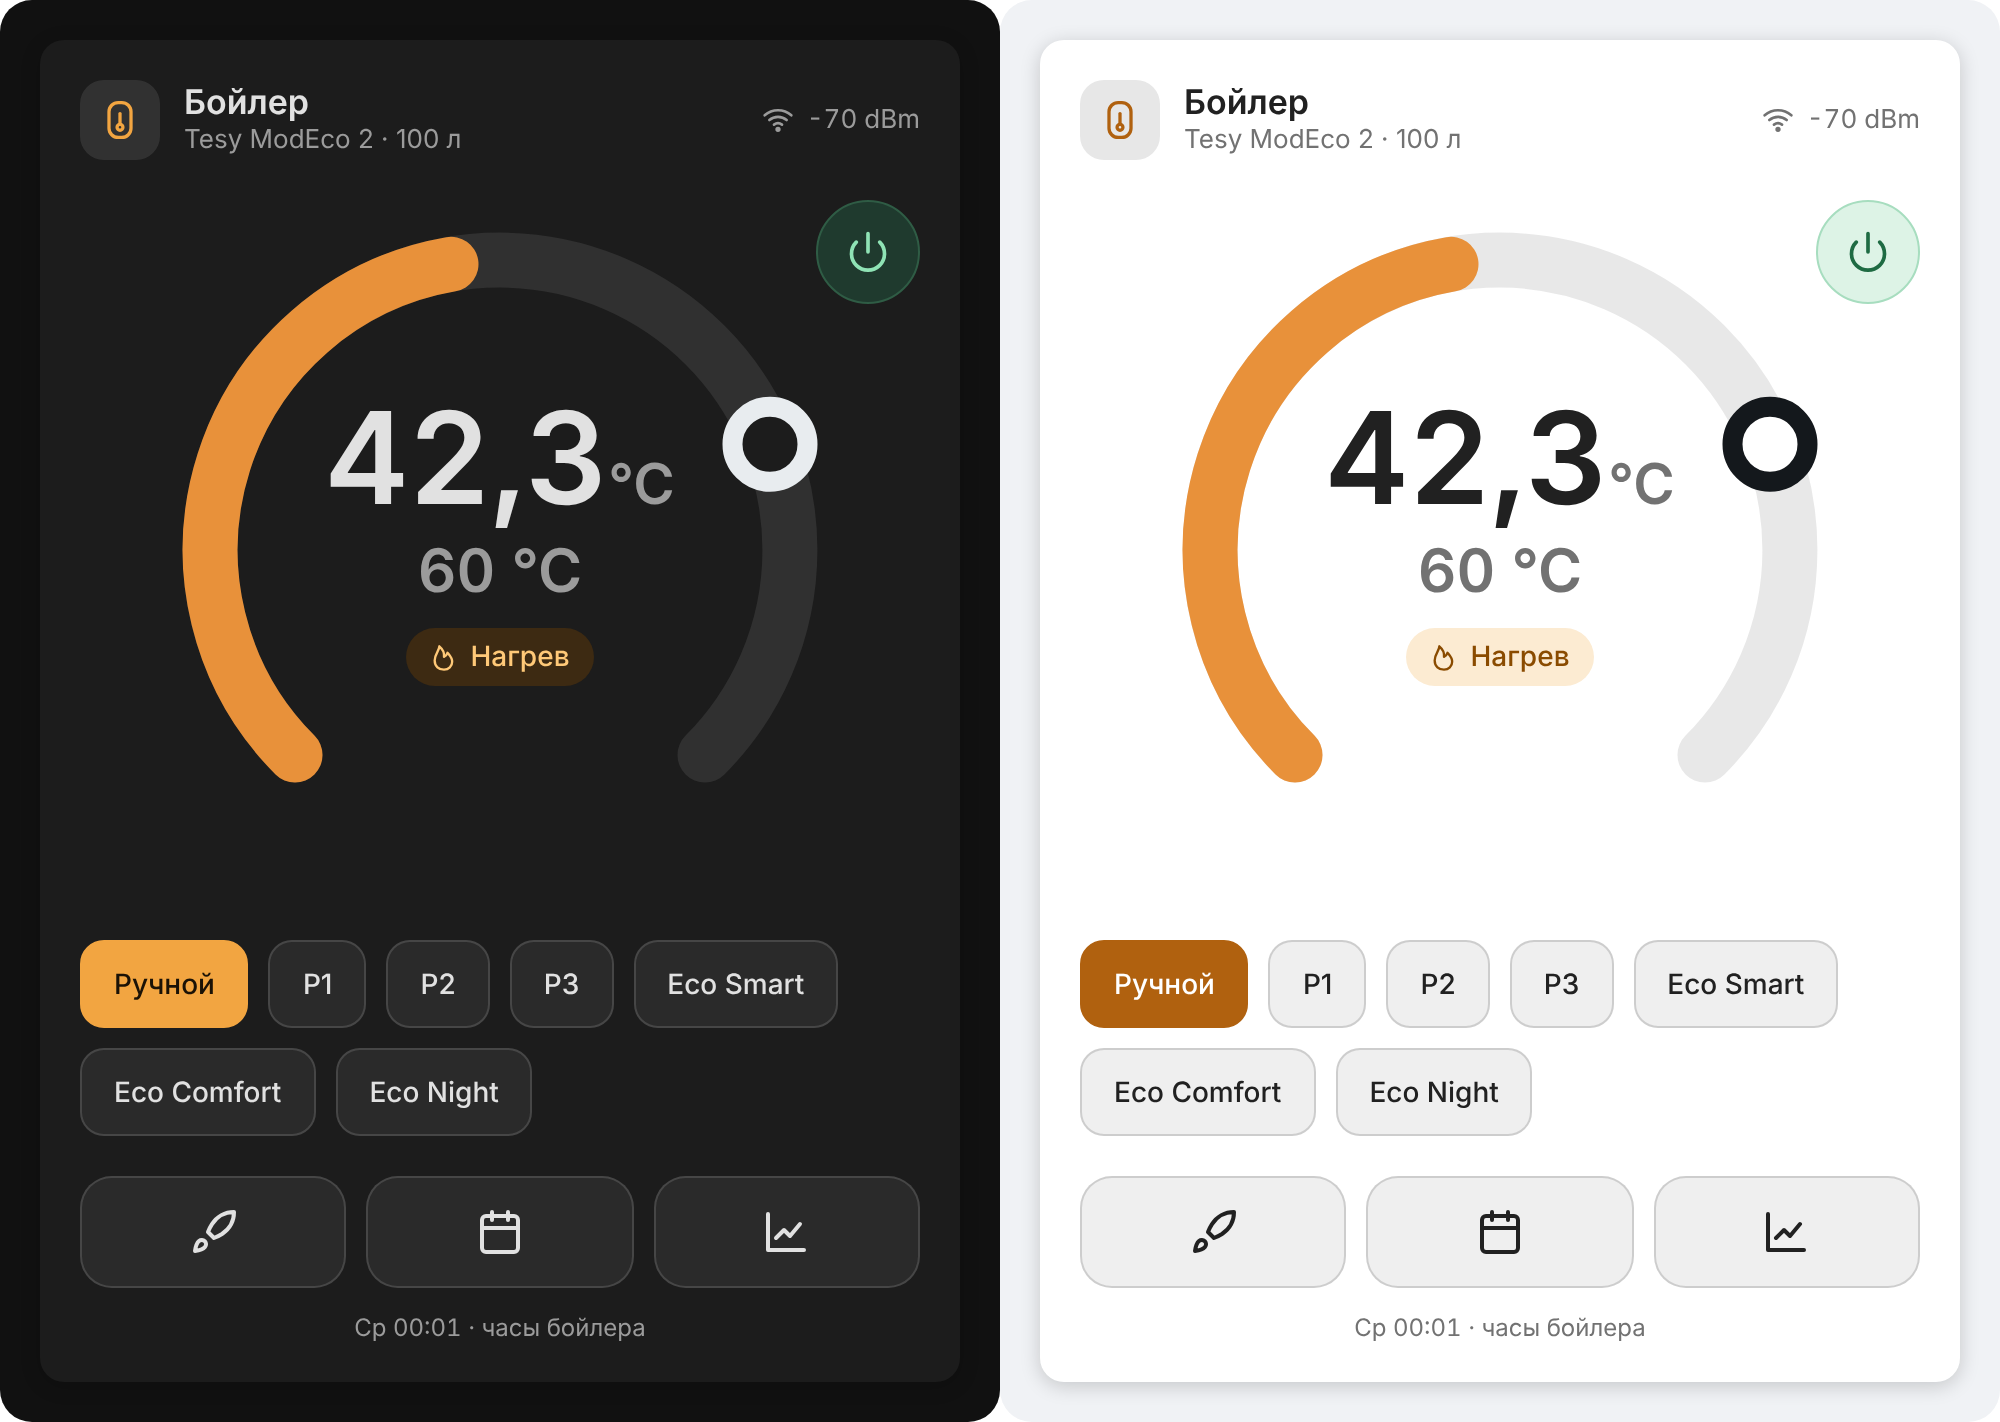
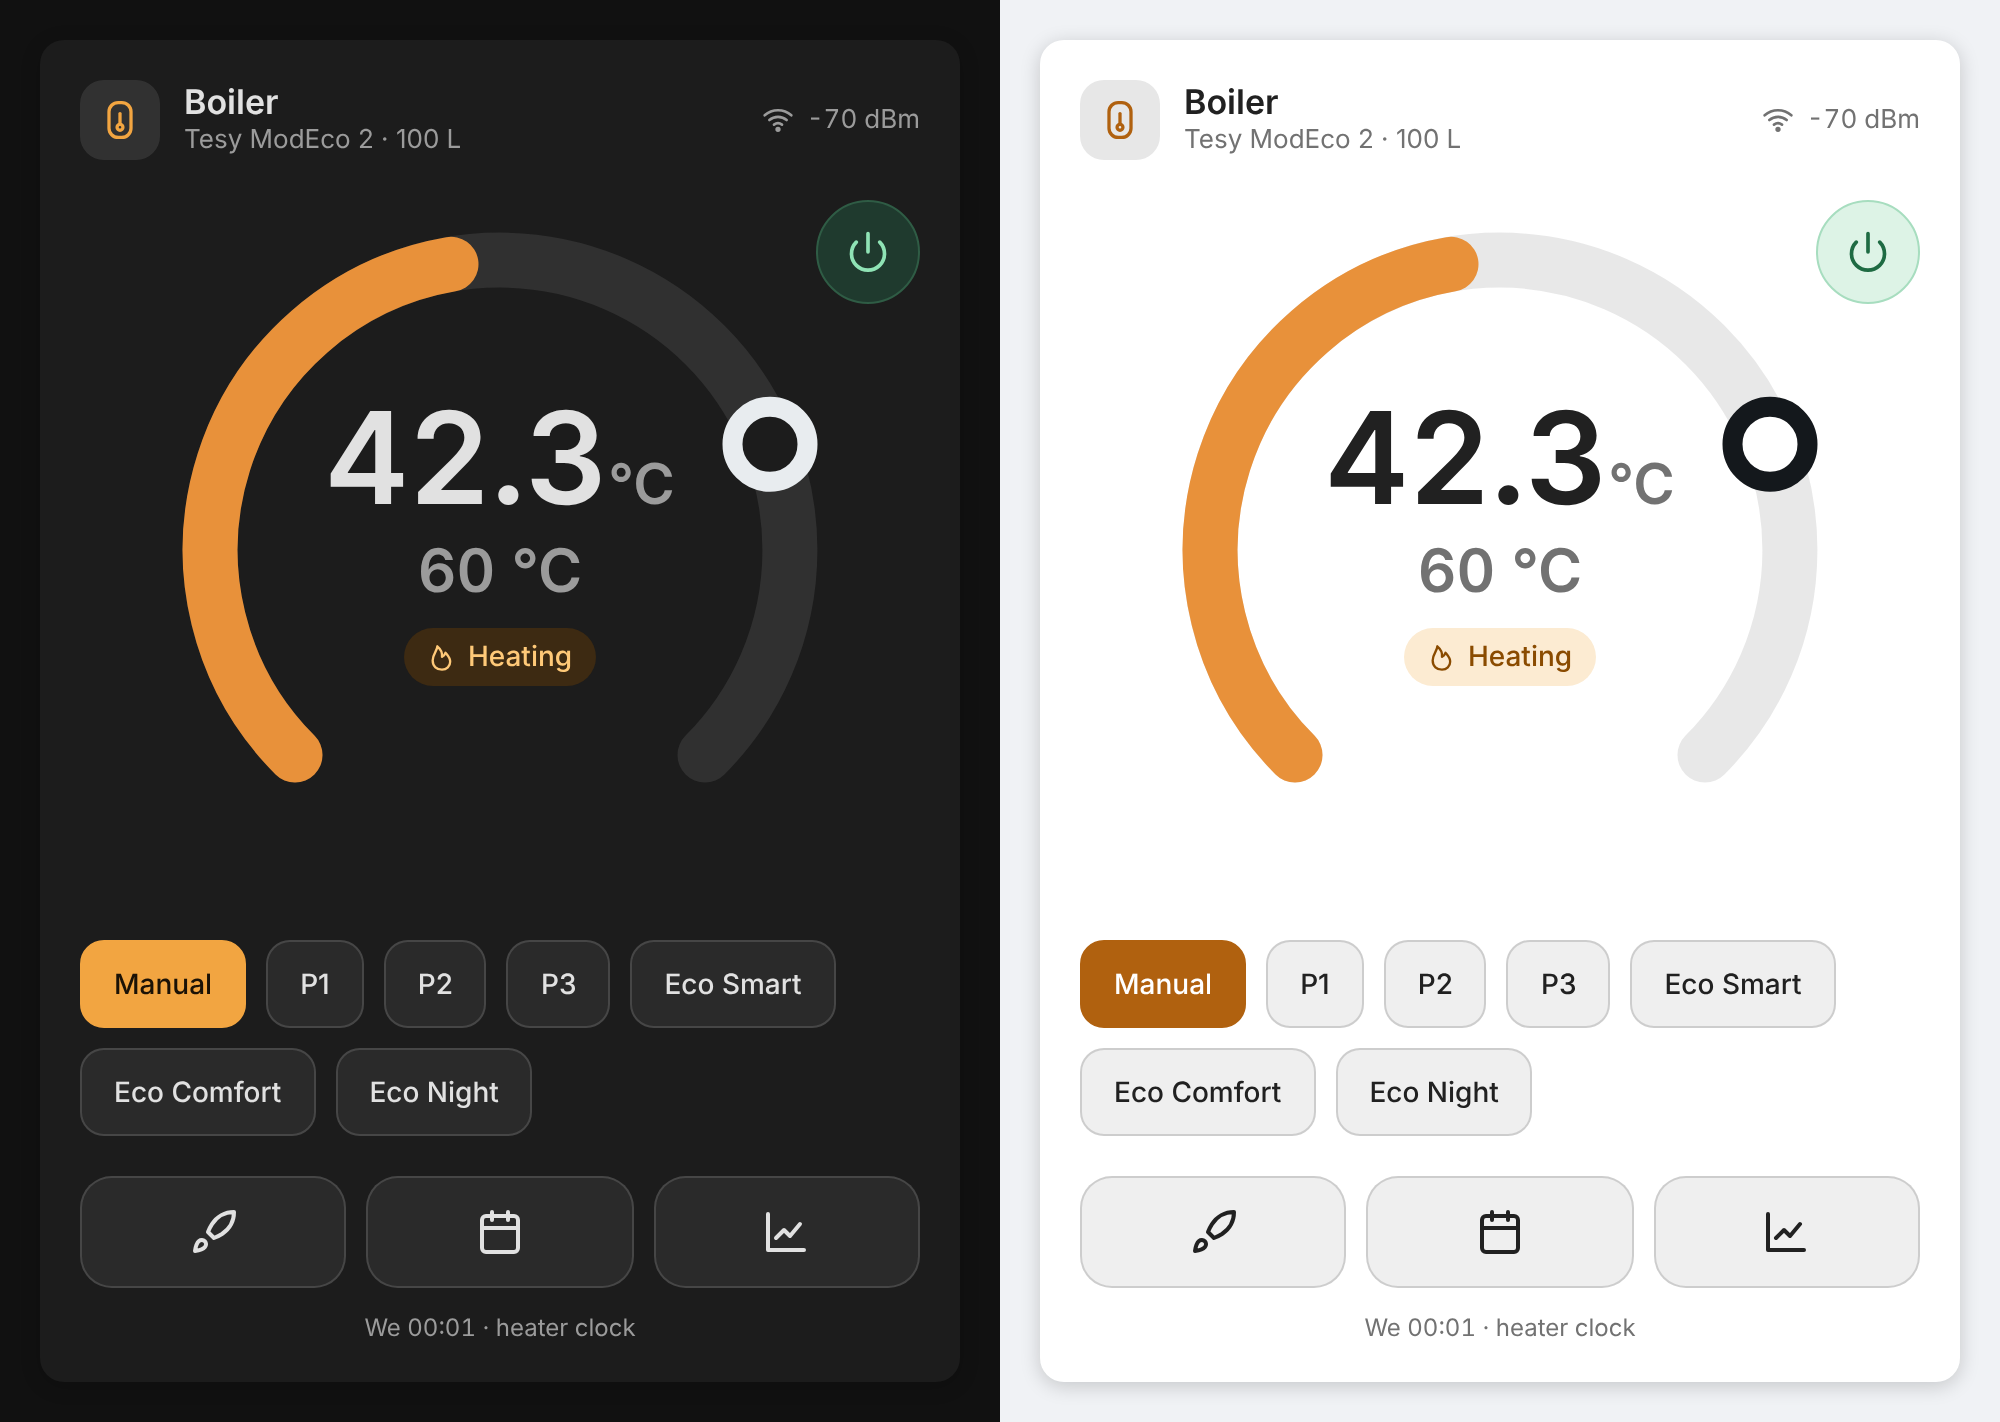
README: English card screenshots, schedule and statistics sections

diff --git a/README.md b/README.md
@@ -74,11 +74,38 @@ auto_reload: true   # reload a page that still runs an older card after an updat
 - **Dial** with the current water temperature and the active target. In manual mode a handle on the dial sets the setpoint (15–75 °C); other modes show the target they work to.
 - **Power** button at the top right of the dial; **modes** Manual, P1–P3, Eco Smart/Comfort/Night; **Boost**, **schedule** and **statistics** as icon buttons.
 - Heating status (heating / target reached / heating off / off) with a subtle animation while the element heats.
-- **Schedule** dialog: P1–P3 as a 7×24 grid on wide screens, day by day on phones and portrait screens. Paint hours with a 15–75 °C brush or ❄ (heating off), copy a day to other days, then write to the heater. The dialog follows changes made elsewhere while nothing is edited.
-- **Statistics** dialog: energy, errors, Wi-Fi, uptime, firmware, clock state.
+- The clock line under the buttons shows the heater's own time; a warning appears when its time zone or clock is off.
 - Follows the Home Assistant light/dark theme and UI language: English, Russian and Ukrainian; any other language gets English (numbers keep the UI language format).
 
 Related entities (Boost switch, energy and diagnostic sensors, clock sensor, time zone button) are found automatically on the same device.
+
+### Schedule
+
+The calendar button opens the weekly programs P1–P3. Each cell is one hour of one day, by the heater's clock.
+
+<img src="https://raw.githubusercontent.com/pollstar/homeassistant-tesy/modeco2-weekly-programs/docs/schedule.png" alt="Weekly programs dialog: 7×24 grid" width="720">
+
+- **Program tabs** P1–P3; the badge shows which program the heater runs now, and a frame marks the current heater hour.
+- **Brush**: pick a temperature (15–75 °C, step 1) or ❄ *Off* (heating off for that hour, stored as 14 °C on the heater), then tap cells to paint them. Empty cells have no entry.
+- **Copy**: choose a source day and copy it to other days, weekdays or the whole week.
+- **Write to heater** saves only the changed days through `tesy.set_schedule` and returns to the card. While nothing is edited, the dialog follows changes made on the heater panel or in MyTESY.
+
+On phones and portrait screens (narrower than 720 px) the same editor works day by day:
+
+<img src="https://raw.githubusercontent.com/pollstar/homeassistant-tesy/modeco2-weekly-programs/docs/schedule-phone.png" alt="Weekly programs on a phone: one day at a time" width="300">
+
+A mini-map of the week sits on top, then the day buttons and the 24 hours of the selected day as 4×6 tiles. The brush and *Copy &lt;day&gt; to* work as on the wide grid.
+
+### Statistics
+
+The chart button opens energy and diagnostics.
+
+<img src="https://raw.githubusercontent.com/pollstar/homeassistant-tesy/modeco2-weekly-programs/docs/statistics.png" alt="Energy and diagnostics dialog" width="420">
+
+- **Energy**: total consumption and the resettable counter (since its last reset), plus the heating element run time. The heater updates its own counter in hourly batches; for the Energy dashboard the integration adds heating time × configured power at every poll.
+- **Errors**: current error code with a description (E01/E02 lower sensor open/short, E03/E04 upper sensor open/short).
+- **Wi-Fi** signal in dBm, marked *weak* below −67 dBm.
+- **Module uptime**, **clock** state (heater time and time zone compared with Home Assistant) and **firmware** versions.
 
 **Updates and caching.** The card is served with `Cache-Control: no-cache` and an ETag, so browsers and reverse proxies (Cloudflare, nginx) check for a newer file on every page load. A page opened before Home Assistant restarted with a new card (a wall tablet, say) reloads itself once; if that does not help, the card shows a reload banner. A page that never loaded the card needs one manual reload.
 
